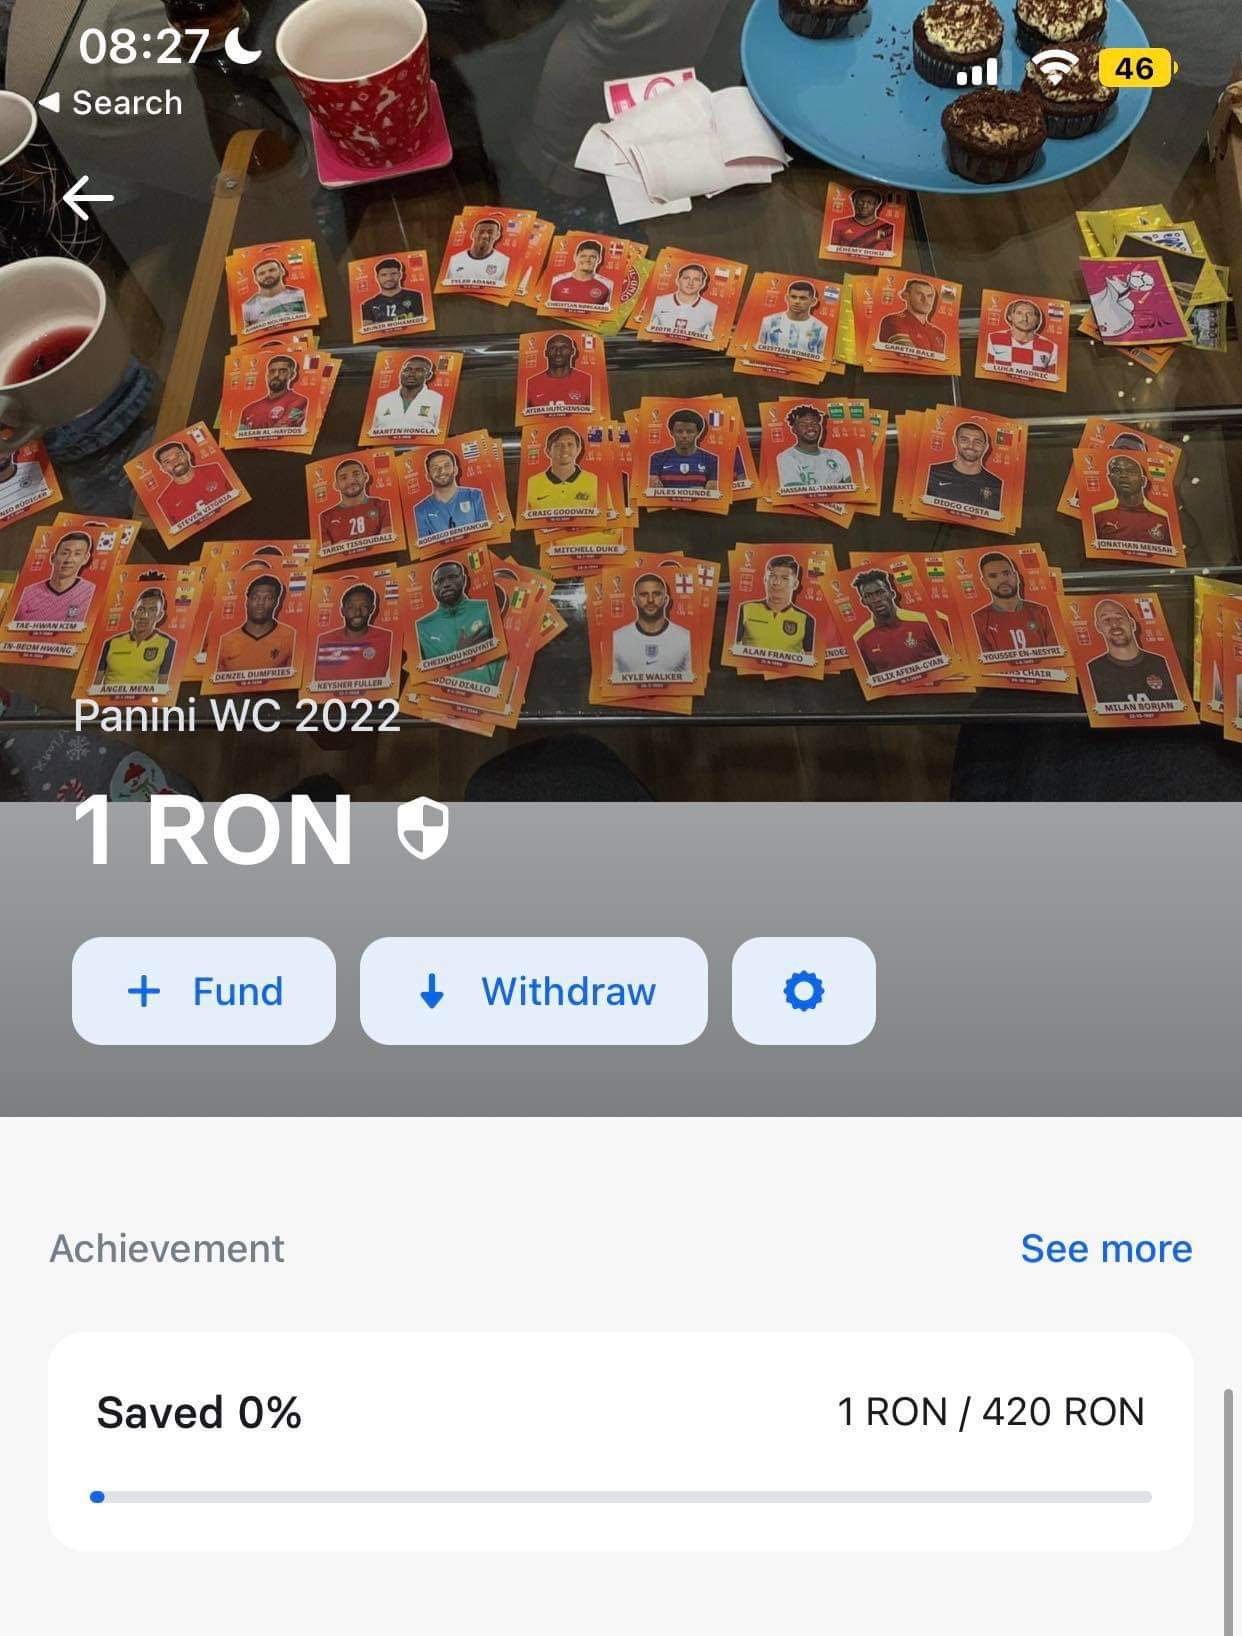
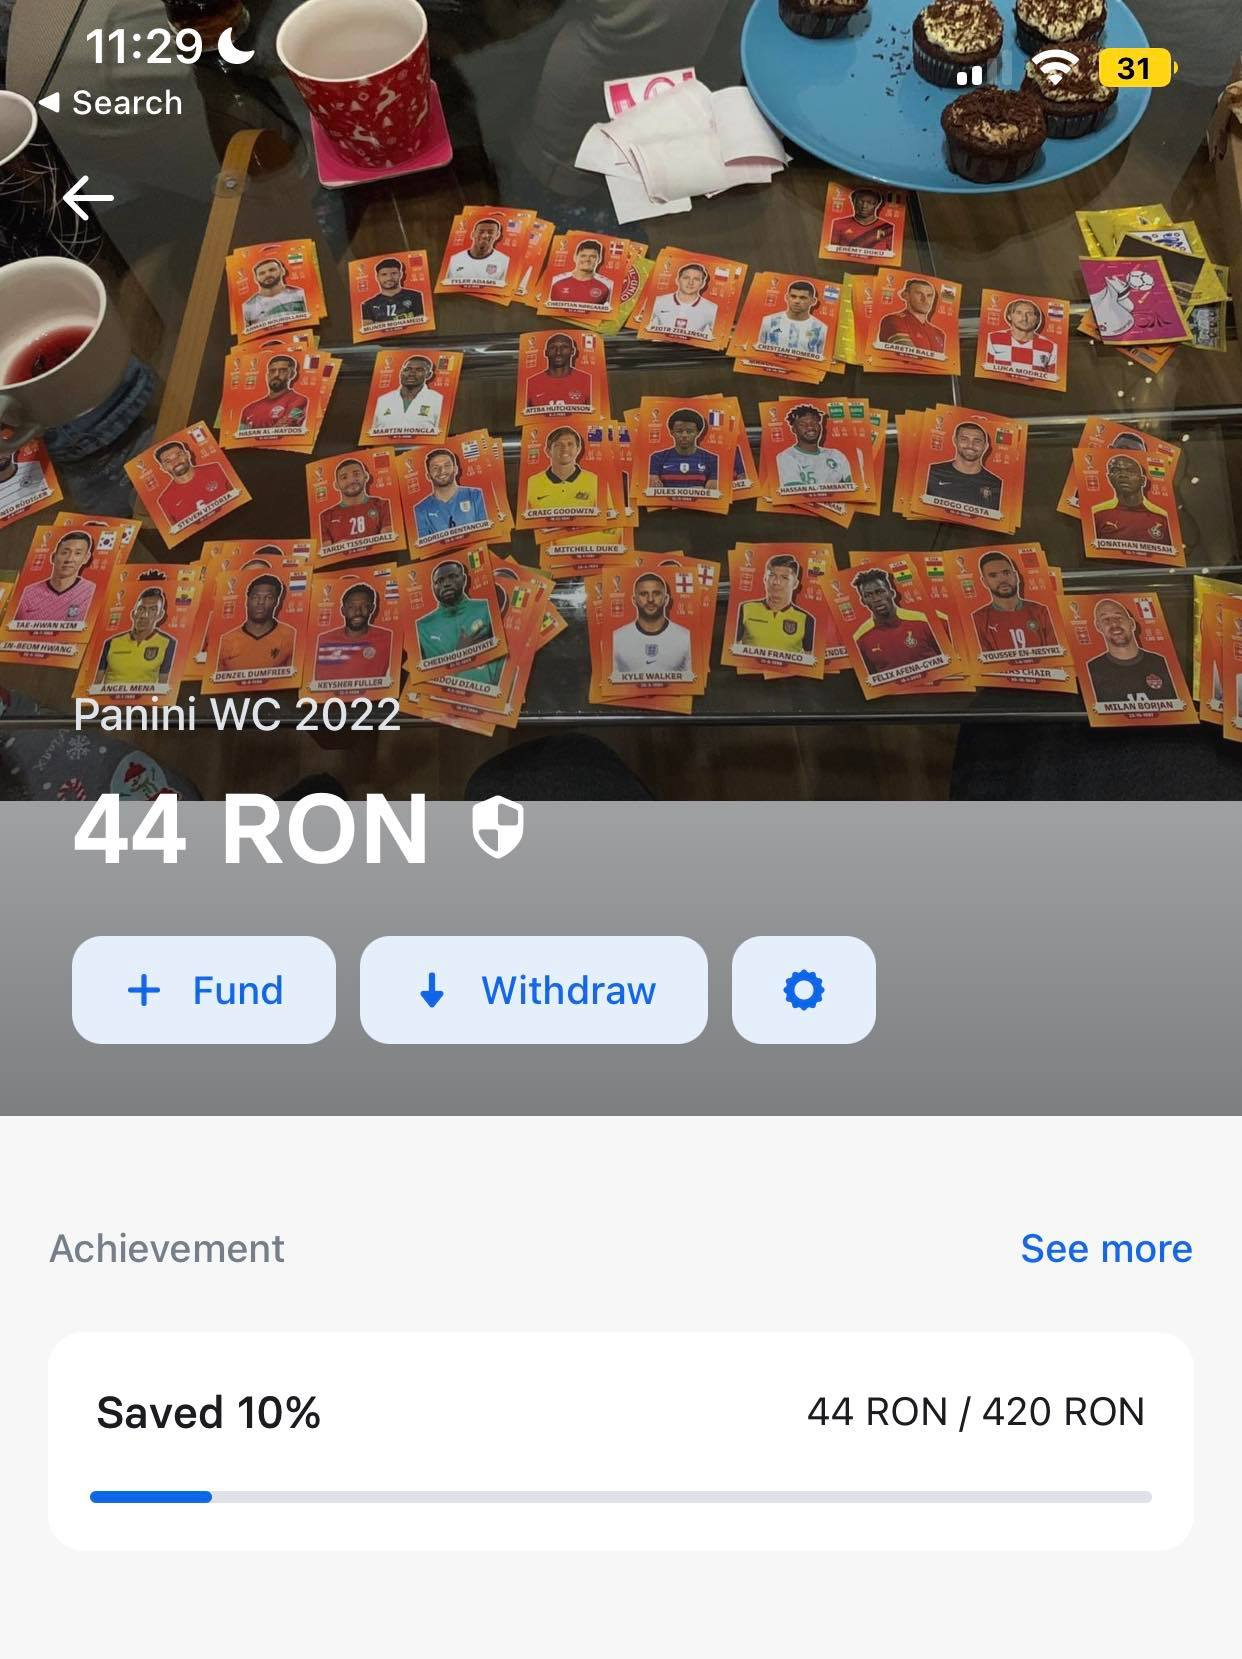
updatE

diff --git a/index.html b/index.html
@@ -10,7 +10,7 @@
 
     Editia despre care vorbim de aceasta data este FIFA World Cup 2022 care contine nu mai mult, nici mai putin
     de 670 stickere. Din fericire, de ziua mea am primit 40 de pachete, ceea ce mi-a oferit un start destul de bun,
-    iar in momentul de fata detin undeva la 198 de stickere unice si 5 dubluri(aceste numere vor fi actualizate dupa
+    iar in momentul de fata detin undeva la 250 de stickere unice si 6 dubluri(aceste numere vor fi actualizate dupa
     fiecare achizitie de pachete)
   </div>
   <div style="margin-left: 20px;">
@@ -52,3 +52,5 @@ care ati donat si care nu.
 <br>
 
 <b>UPDATE 19.11.2022(primul donator)</b> Robert Cobzariu - 1 leu (e ITist btw lmao)
+Donator anonim - 4 pachete(aici am mai pus eu 6 si am luat 10) - am prins 0 dubluri les goo
+Donator anonim - 10 pachete(respeeect - momentan sunt in vault)
